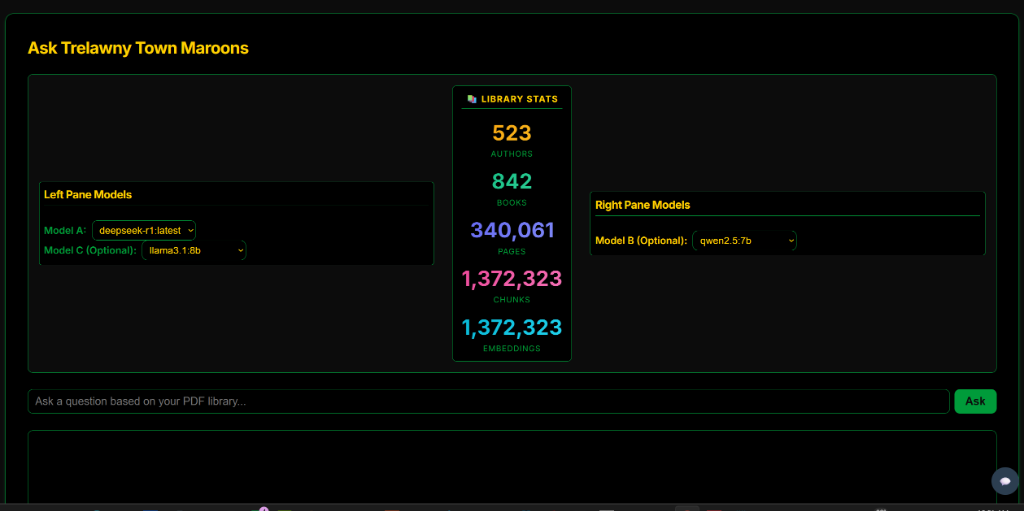
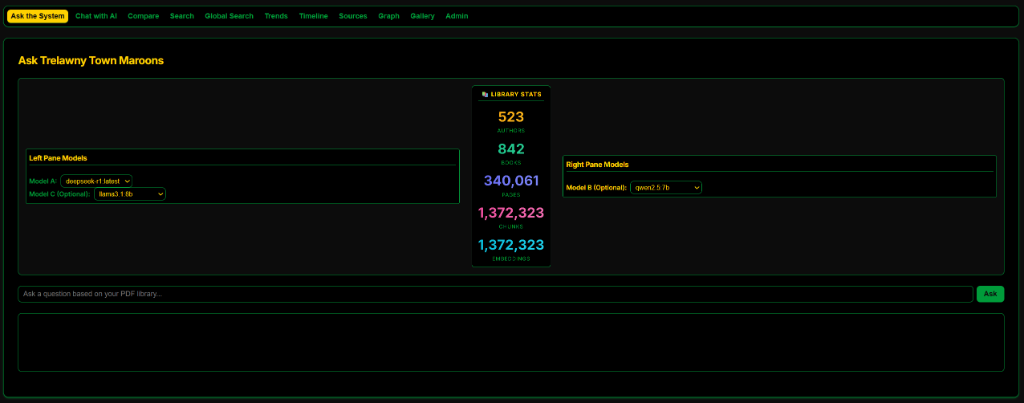
push

diff --git a/research.html b/research.html
@@ -153,20 +153,17 @@
 
         .stats-grid {
             display: grid;
-            grid-template-columns: repeat(auto-fit, minmax(200px, 1fr));
+            grid-template-columns: repeat(auto-fit, minmax(180px, 1fr));
             gap: 1.5rem;
-            max-width: 1000px;
+            max-width: 1200px;
             margin: 0 auto 4rem auto;
             text-align: center;
         }
 
-        /* Based on the image, the grid has 4 columns max */
+        /* 5 columns on desktop */
         @media (min-width: 900px) {
             .stats-grid {
-                grid-template-columns: repeat(4, 1fr);
-            }
-            .stats-grid .stat-box:nth-child(5) {
-                grid-column: 1 / 2;
+                grid-template-columns: repeat(5, 1fr);
             }
         }
 
